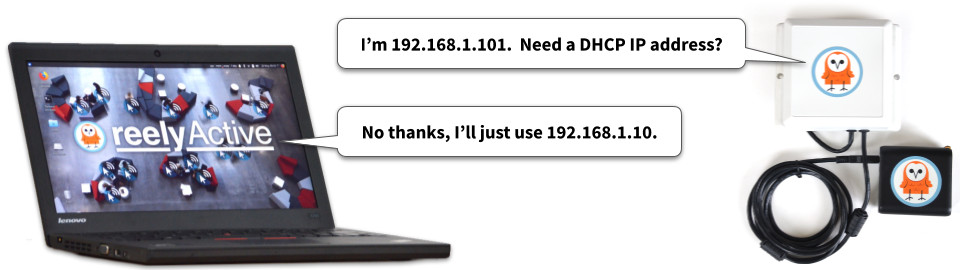
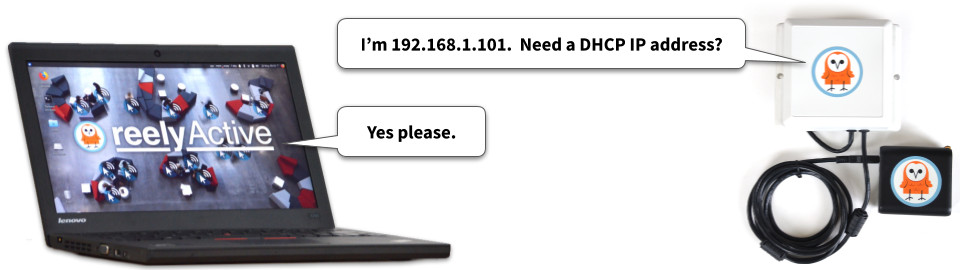
Updated to reflect UDP broadcast

Changed region(s): [[0.375, 0.4444, 0.7188, 0.6222], [0.5, 0.3852, 0.7188, 0.4148], [0.2812, 0.5037, 0.3438, 0.563]]

diff --git a/diy/oio-wlan/index.html b/diy/oio-wlan/index.html
@@ -134,7 +134,7 @@
               <hr>
               <dl class="row">
                 <dt class="col-sm-3">What will this accomplish?</dt>
-                <dd class="col-sm-9">A standalone wireless network of Owl-in-Ones forwarding data to a laptop running our open source software.</dd>
+                <dd class="col-sm-9">A standalone wireless network of Owl-in-Ones forwarding data to <em>all</em> devices on the WLAN, such as a laptop running our open source software.</dd>
                 <dt class="col-sm-3">Why would I need this?</dt>
                 <dd class="col-sm-9">For quick demos and short-term data collection, there's nothing more convenient than simply powering on all the devices.  The rest happens automagically.</dd>
                 <dt class="col-sm-3">So no WiFi or Internet required?</dt>
@@ -217,70 +217,8 @@
           <div class="jumbotron jumbotron-fluid my-4">
             <div class="container">
               <h2 id="step02">
-                Connecting the laptop to the WLAN &nbsp;
-                <a href="#step02" class="badge badge-secondary">Step 2 of 4</a>
-              </h2>
-              <p class="lead"> Select the reelyActive WiFi network and configure a static IP address. </p>
-              <hr>
-              <dl class="row">
-                <dt class="col-sm-3">Why a static IP address?</dt>
-                <dd class="col-sm-9">In the next step all Owl-in-Ones will be configured to forward data to the laptop via its IP address.</dd>
-                <dt class="col-sm-3">Should the AP be powered on?</dt>
-                <dd class="col-sm-9">Yes.  The AP Owl-in-One must be powered on for the laptop to be able to connect.</dd>
-              </dl>
-            </div>
-          </div>
-          <img src="images/laptop-connect.jpg" class="img-fluid"
-               alt="Laptop connected to the reelyActive WiFi network">
-          <h3 class="mt-4">
-            Connect to the reelyActive WiFi network
-            <small class="text-muted"> Part 1 </small>
-          </h3>
-          <p> From the laptop <i class="fas fa-laptop"></i>: </p>
-          <ol>
-            <li> Select from the list of available WiFi networks the one called <b>reelyActive</b> </li>
-            <li> When prompted, enter the password <b>owl-in-one</b> </li>
-            <li> Open a terminal <i class="fas fa-terminal"></i> and confirm the connection with the command <code>ifconfig</code> </li>
-          </ol>
-          <img src="images/laptop-dhcp-ip.png" class="img-fluid"
-               alt="ifconfig with DHCP-assigned IP address">
-          <p class="mt-2"> The laptop is connected to reelyActive WiFi network and is assigned an IP address by the AP via DHCP.  This IP address is likely to change on subsequent connections.  Let's make it static. </p>
-          <h3>
-            Configure a static IP address
-            <small class="text-muted"> Part 2 </small>
-          </h3>
-          <p> From the laptop <i class="fas fa-laptop"></i>: </p>
-          <ol>
-            <li> Open the Network Manager and select <b>Edit Connections...</b> </li>
-            <li> From the list of WiFi connections select <b>reelyActive</b> and click Edit </li>
-            <li> Select the <b>IPv4 Settings</b> tab </li>
-            <li> From the Method pulldown, select <b>Manual</b> </li>
-            <li> Click Add to add the static IP address: </li>
-            <ul>
-              <li> Enter <b>192.168.1.10</b> as the address </li>
-              <li> Enter <b>255.255.255.0</b> as the netmask </li>
-              <li> Enter <b>192.168.1.101</b> as the gateway </li>
-            </ul>
-            <li> Click Save to complete the configuration </li>
-          </ol>
-          <img src="images/laptop-ip-config.png" class="img-fluid"
-               alt="Configure the laptop for the reelyActive WiFi network">
-          <p class="mt-4">
-            <span class="badge badge-warning">
-              <i class="fas fa-exclamation-triangle"></i>
-            </span>
-            Disconnect from and reconnect to the <b>reelyActive</b> WiFi network to ensure that the IP settings update.
-          </p>
-          <p> Open a terminal <i class="fas fa-terminal"></i> and confirm the static IP address <b>192.168.1.10</b> with the command <code>ifconfig</code> </p>
-          <img src="images/laptop-static-ip.png" class="img-fluid"
-               alt="ifconfig with static IP address">
-          <p class="mt-2"> The laptop is now connected to the reelyActive WiFi network with a static IP address. </p>
-          <!----- Step 3 ----->
-          <div class="jumbotron jumbotron-fluid my-4">
-            <div class="container">
-              <h2 id="step03">
                 Configuring the Owl-in-One Software &nbsp;
-                <a href="#step03" class="badge badge-secondary">Step 3 of 4</a>
+                <a href="#step02" class="badge badge-secondary">Step 2 of 4</a>
               </h2>
               <p class="lead"> Clone the software repository and update the configuration. </p>
               <hr>
@@ -328,18 +266,19 @@
           <ol>
             <li> Browse to the root of the <b>tessel-edge</b> repository </li>
             <li> Open the file <b>config.js</b> for editing </li>
-            <li> Update the <b>RADDEC_TARGETS</b> as below </li>
+            <li> Update the <b>RADDEC_TARGETS</b> and <b>IS_UDP_BROADCAST</b> as below </li>
           </ol>
           <pre><code>const RADDEC_TARGETS = [
-    { host: "192.168.1.10", port: "50001", protocol: "udp" }
-];</code></pre>
-          <p> The tessel-edge software is now configured to forward data to the laptop's static IP address.  Let's program the Owl-in-Ones! </p>
-          <!----- Step 4 ----->
+    { host: "192.168.1.<b>255</b>", port: "50001", protocol: "udp" }
+];
+const IS_UDP_BROADCAST = <b>true</b>;</code></pre>
+          <p> The tessel-edge software is now configured to forward data to <em>all</em> devices on the WLAN.  Let's program the Owl-in-Ones! </p>
+          <!----- Step 3 ----->
           <div class="jumbotron jumbotron-fluid my-4">
             <div class="container">
-              <h2 id="step04">
+              <h2 id="step03">
                 Programming the Owl-in-Ones &nbsp;
-                <a href="#step04" class="badge badge-secondary">Step 4 of 4</a>
+                <a href="#step03" class="badge badge-secondary">Step 3 of 4</a>
               </h2>
               <p class="lead"> Program the software of each Owl-in-One and connect to the WiFi network. </p>
               <hr>
@@ -393,7 +332,45 @@
           </ol>
           <img src="images/oio-wifi.png" class="img-fluid"
                alt="Owl-in-One t2 wifi">
-          <p class="mt-2"> The Owl-in-One is now connected to the WiFi network and forwarding real-time data to the laptop's IP address. </p>
+          <p class="mt-2"> The Owl-in-One is now connected to the WiFi network and forwarding real-time data to all devices connected to the WLAN. </p>
+          <!----- Step 4 ----->
+          <div class="jumbotron jumbotron-fluid my-4">
+            <div class="container">
+              <h2 id="step04">
+                Connecting the laptop to the WLAN &nbsp;
+                <a href="#step04" class="badge badge-secondary">Step 4 of 4</a>
+              </h2>
+              <p class="lead"> Select the reelyActive WiFi network and observe data from the Owl-in-Ones. </p>
+              <hr>
+              <dl class="row">
+                <dt class="col-sm-3">Should the AP be powered on?</dt>
+                <dd class="col-sm-9">Yes.  The AP Owl-in-One must be powered on for the laptop to be able to connect.</dd>
+                <dt class="col-sm-3">Any prerequisites?</dt>
+                <dd class="col-sm-9">Yes.  The laptop should be configured with reelyActive software to observe the incoming UDP packets from the Owl-in-Ones.</dd>
+              </dl>
+            </div>
+          </div>
+          <img src="images/laptop-connect.jpg" class="img-fluid"
+               alt="Laptop connected to the reelyActive WiFi network">
+          <h3 class="mt-4">
+            Connect to the reelyActive WiFi network
+            <small class="text-muted"> Part 1 </small>
+          </h3>
+          <p> From the laptop <i class="fas fa-laptop"></i>: </p>
+          <ol>
+            <li> Select from the list of available WiFi networks the one called <b>reelyActive</b> </li>
+            <li> When prompted, enter the password <b>owl-in-one</b> </li>
+            <li> Open a terminal <i class="fas fa-terminal"></i> and confirm the connection with the command <code>ifconfig</code> </li>
+          </ol>
+          <img src="images/laptop-dhcp-ip.png" class="img-fluid"
+               alt="ifconfig with DHCP-assigned IP address">
+          <p class="mt-2"> The laptop is connected to reelyActive WiFi network and is assigned an IP address by the AP via DHCP.  Because the Owl-in-Ones are broadcasting on the subnet, their UDP packets will automatically be sent to this IP address, and hence received by the laptop. </p>
+          <h3>
+            Observe the data with hlc-server
+            <small class="text-muted"> Part 2 </small>
+          </h3>
+          <p> From the laptop <i class="fas fa-laptop"></i>, run the hlc-server software (<i class="fas fa-laptop"></i> <a href="../laptop-suite/">tutorial</a> &nbsp;|&nbsp; <i class="fab fa-raspberry-pi"></i> <a href="../pi-suite/">tutorial</a>) and browse to the web interface to observe the real-time data stream from the Owl-in-Ones. </p>
+          <p class="mt-2"> The laptop is now connected to the reelyActive WiFi network and observing data from the Owl-in-Ones. </p>
           <!----- Document template ----->
           <div class="card my-4">
             <h4 class="card-header"> Do you like this document template? </h4>
